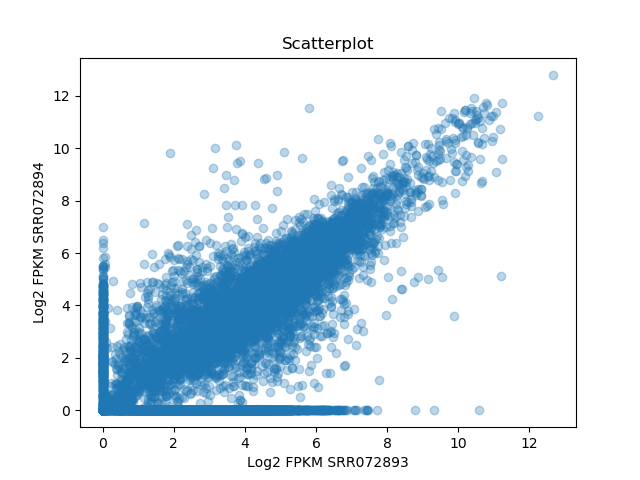
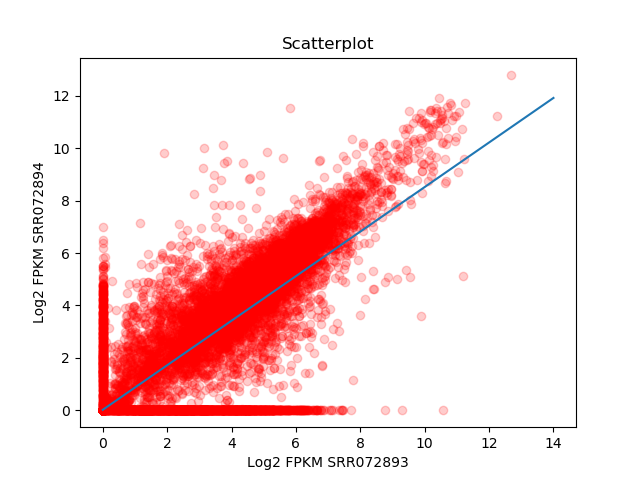
day 4 lunch

diff --git a/day4-lunch/newscatter.py b/day4-lunch/newscatter.py
@@ -32,13 +32,17 @@ goi2 = np.log2(df.loc[:,name2] + 1)
 
 
 fig, ax = plt.subplots()
-ax.scatter (goi, goi2, alpha=0.3)
+ax.scatter (goi, goi2, alpha=0.2, color="red")
 ax.set_title("Scatterplot")
 ax.set_xlabel("Log2 FPKM {}".format(name1))
 ax.set_ylabel("Log2 FPKM {}".format(name2))
 
-fig.savefig("name1vsname2.png")
+polyfit = np.polyfit(goi, goi2, 1)
+poly1d = np.poly1d(polyfit)
+xp = np.linspace(0, 14, 100)
+ax.plot(xp, poly1d(xp))
 
+fig.savefig("name1vsname2.png")
 
 plt.close(fig)
 
